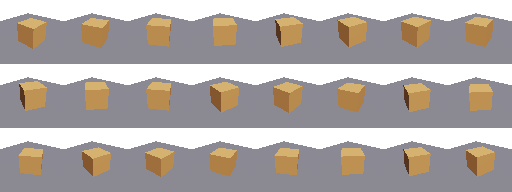
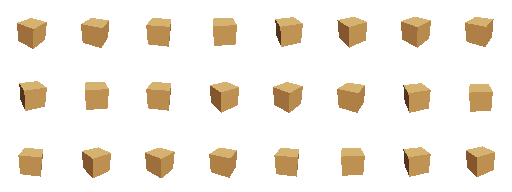
artstation: scene capture via captureFrame + live stage/inspect
Drops the flush()/toImageData() dance for scene assets and uses the
new scene.captureFrame() everywhere — sheet render, save encoders,
inspect tiling, and the stage live-preview rAF loop. Capture canvas
is now display:none instead of position:absolute -99999px so the
shared SceneGraph doesn't leak onto the main viewport.

Restart startLivePreview() after any path that rebuilds the capture
SceneGraph (selectAsset's deferred re-render, saveVideo/saveGif's
finally), since clearScene + spec.build invalidates the refs the
preview loop captured and would otherwise freeze the stage.

td_test_scene loses its ground plane to double as the transparent-
background smoke test: silhouette pixels read RGBA(0,0,0,0) end to
end through the regenerated sheet PNG.

diff --git a/apps/artstation/app.js b/apps/artstation/app.js
@@ -256,35 +256,20 @@
 
     // ---- defineScene support --------------------------------------------
     //
-    // Hidden, off-screen canvas used to render 3D scenes for sheet capture.
-    // We position it absolutely off-screen rather than display:none because
-    // bro skips render for elements with no layout box, and we *want* the
-    // scene to actually render so its tonemap FBO can be readback'd. The
-    // canvas size matches the asset's frameWidth/frameHeight so we capture
-    // exactly the cell-sized region per frame — no scaling, no cropping.
+    // Hidden canvas hosting a SceneGraph for sheet capture. display:none keeps
+    // the engine's per-tick scene compositor from drawing it on screen; sizing
+    // and rendering go through scene.captureFrame(w, h), which drives a
+    // synchronous render and reads back the tonemap FBO. That works in both
+    // windowed and headless modes — no flush() dependency.
     let captureCanvas = null;
     let captureScene  = null;
 
-    function ensureCaptureCanvas(w, h) {
+    function ensureCaptureCanvas() {
         if (!captureCanvas) {
             captureCanvas = document.createElement('canvas');
             captureCanvas.id = '__artstation_capture';
-            captureCanvas.style.position = 'absolute';
-            captureCanvas.style.left = '-99999px';
-            captureCanvas.style.top  = '-99999px';
+            captureCanvas.style.display = 'none';
             document.body.appendChild(captureCanvas);
-        }
-        if (captureCanvas.width !== w || captureCanvas.height !== h) {
-            captureCanvas.width = w;
-            captureCanvas.height = h;
-            captureCanvas.style.width  = w + 'px';
-            captureCanvas.style.height = h + 'px';
-            // Recreating the context is required when the size changes
-            // because the underlying scene FBO is sized lazily — and for a
-            // brand-new asset there's no existing context anyway.
-            captureScene = null;
-        }
-        if (!captureScene) {
             captureScene = captureCanvas.getContext('scene');
         }
         return captureScene;
@@ -317,18 +302,10 @@
         const fw = spec.frameWidth, fh = spec.frameHeight;
         const sheetCtx = resetCanvas(sheetCanvas, layout.w, layout.h, spec.bg, spec.pixel);
 
-        const scene = ensureCaptureCanvas(fw, fh);
+        const scene = ensureCaptureCanvas();
         clearScene(scene);
 
-        // Two flushes: the first publishes the new canvas size into the
-        // layout/render pipeline so the scene's mesh FBO gets sized to
-        // (fw, fh) before build() runs. The second drains any GL state set
-        // up by build() (texture creation, buffer uploads) so the first
-        // frame's render is on a fully-initialized scene.
-        if (typeof flush === 'function') flush();
-
         const refs = spec.build(scene) || {};
-        if (typeof flush === 'function') flush();
 
         const dt = 1 / spec.fps;
         for (let i = 0; i < layout.n; i++) {
@@ -339,15 +316,11 @@
             try { spec.frame(scene, t, dt, refs, i); }
             catch (e) { console.log(`scene frame ${i} threw:`, e.message); }
 
-            // Drive a real engine tick so the scene re-renders with the new
-            // transforms; the tonemap FBO is then ready for readback.
-            if (typeof flush === 'function') flush();
-
-            const img = scene.toImageData ? scene.toImageData() : null;
+            const img = scene.captureFrame(fw, fh);
             if (img && img.width === fw && img.height === fh) {
                 sheetCtx.putImageData(img, cx, cy);
             } else {
-                console.log(`scene frame ${i}: toImageData unavailable or size mismatch`);
+                console.log(`scene frame ${i}: captureFrame unavailable or size mismatch`);
             }
         }
     }
@@ -540,11 +513,7 @@
             entry.kind === 'animated') {
             inspect();
         } else if (entry.kind === 'scene') {
-            // Inspect for scene kind only draws the cell grid: replaying the
-            // 3D render into the inspect canvas would require a second
-            // capture pass per frame, and the sheet canvas already shows the
-            // pixels at 1:1 — anything more is debugger UX, not authoring UX.
-            inspectSceneGrid(name);
+            inspectScene(name);
         } else {
             // No inspect view for this kind — wipe any stale pixels left over
             // from the previously-selected asset so the panel doesn't lie.
@@ -552,17 +521,40 @@
         }
     }
 
-    function inspectSceneGrid(name) {
+    function inspectScene(name) {
         const entry = REGISTRY[name];
         const spec = entry.spec;
         const lay = entry.layout || sceneSize(spec);
-        const sw = sheetCanvas.width, sh = sheetCanvas.height;
+        const fw = spec.frameWidth, fh = spec.frameHeight;
+        const sw = lay.w, sh = lay.h;
         const scale = Math.max(1, Math.floor(384 / Math.max(sw, sh)));
         const w = sw * scale, h = sh * scale;
         const ctx = resetCanvas(inspectCanvas, w, h, '#222');
-        ctx.fillStyle = 'rgba(0,255,255,0.45)';
-        const cellW = spec.frameWidth * scale;
-        const cellH = spec.frameHeight * scale;
+
+        // Re-capture each frame at scaled cell size and putImageData onto
+        // the inspect canvas. Mirrors the sheet inspect path but goes
+        // through scene.captureFrame() since 3D content can't be replayed
+        // by drawing into a 2D ctx.
+        const scene = ensureCaptureCanvas();
+        clearScene(scene);
+        let refs = {};
+        try { refs = spec.build(scene) || {}; }
+        catch (e) { console.log('scene build threw:', e.message); }
+        const dt = 1 / spec.fps;
+        for (let i = 0; i < lay.n; i++) {
+            const cx = (i % lay.cols) * fw * scale;
+            const cy = Math.floor(i / lay.cols) * fh * scale;
+            try { spec.frame(scene, i * dt, dt, refs, i); }
+            catch (e) { console.log(`scene frame ${i} threw:`, e.message); }
+            const img = scene.captureFrame(fw * scale, fh * scale);
+            if (img) ctx.putImageData(img, cx, cy);
+        }
+
+        // Cell grid overlay so frame boundaries are still visible after
+        // the captures land — useful for spotting accidentally-clipped
+        // geometry that runs off the cell edge.
+        ctx.fillStyle = 'rgba(0,255,255,0.35)';
+        const cellW = fw * scale, cellH = fh * scale;
         for (let x = cellW; x < w; x += cellW) ctx.fillRect(x, 0, 1, h);
         for (let y = cellH; y < h; y += cellH) ctx.fillRect(0, y, w, 1);
     }
@@ -717,19 +709,15 @@
             const dt = 1 / spec.fps;
             const total = Math.max(1, Math.round(spec.fps * spec.duration));
             const ctx = resetCanvas(sheetCanvas, fw, fh, spec.bg, spec.pixel);
-            const scene = ensureCaptureCanvas(fw, fh);
+            const scene = ensureCaptureCanvas();
             clearScene(scene);
-            if (typeof flush === 'function') flush();
             const refs = spec.build(scene) || {};
-            if (typeof flush === 'function') flush();
             for (let i = 0; i < total; i++) {
                 resetCanvas(sheetCanvas, fw, fh, spec.bg, spec.pixel);
                 try { spec.frame(scene, i * dt, dt, refs, i); }
                 catch (e) { console.log(`scene frame ${i} threw:`, e.message); }
-                if (typeof flush === 'function') flush();
-                const img = scene.toImageData ? scene.toImageData() : null;
+                const img = scene.captureFrame(fw, fh);
                 if (img) ctx.putImageData(img, 0, 0);
-                if (typeof flush === 'function') flush();
                 addFrame(ctx, sheetCanvas, i);
             }
             frames = total;
@@ -893,7 +881,11 @@
                 fps: stats.fps, width: stats.fw, height: stats.fh,
             };
         } finally {
+            // Re-render rebuilds the capture SceneGraph (clearScene + build),
+            // which invalidates the refs the live preview captured. Restart
+            // it so the stage keeps animating after save returns.
             try { render(name); } catch (e) {}
+            try { startLivePreview(name); } catch (e) {}
         }
 
         status.textContent = `saved ${path} (${result.frames} frames)`;
@@ -946,7 +938,11 @@
                 fps: stats.fps, width: stats.fw, height: stats.fh,
             };
         } finally {
+            // Re-render rebuilds the capture SceneGraph (clearScene + build),
+            // which invalidates the refs the live preview captured. Restart
+            // it so the stage keeps animating after save returns.
             try { render(name); } catch (e) {}
+            try { startLivePreview(name); } catch (e) {}
         }
 
         status.textContent = `saved ${path} (${result.frames} frames)`;
@@ -1261,6 +1257,27 @@
         });
     }
 
+    // Live-preview render for scene assets. Mutates the shared capture
+    // SceneGraph for frame `idx`, captures it at stage-scaled resolution
+    // (so a 64×64 source doesn't look postage-stamp-sized), and blits the
+    // ImageData onto the stage centered. Captures at scaled-up size rather
+    // than capturing native + scaling-on-blit because cross-canvas drawImage
+    // through the GPU compositor is unreliable here (see comment above
+    // drawSheetFrameLive); putImageData is a clean pixel write.
+    function drawSceneFrameLive(spec, scene, refs, idx) {
+        const fw = spec.frameWidth, fh = spec.frameHeight;
+        const scale = fitScale(fw, fh);
+        const dt = 1 / spec.fps;
+        try { spec.frame(scene, idx * dt, dt, refs, idx); }
+        catch (e) { console.log(`scene frame ${idx} threw:`, e.message); }
+        const img = scene.captureFrame(fw * scale, fh * scale);
+        const ctx = resetStage();
+        if (!img) return;
+        const dx = Math.floor((stageCanvas.width  - img.width)  / 2);
+        const dy = Math.floor((stageCanvas.height - img.height) / 2);
+        ctx.putImageData(img, dx, dy);
+    }
+
     function drawTilesetLive(spec) {
         const ctx = resetStage();
         const ts = spec.tileSize;
@@ -1346,6 +1363,43 @@
                     : Math.min(idx, len - 1);
                 const frameIdx = liveAnimSpec.frames[slot];
                 drawSheetFrameLive(spec, frameIdx);
+                updateFrameCounter(slot, len);
+                livePreviewRAF = requestAnimationFrame(loop);
+            };
+            livePreviewRAF = requestAnimationFrame(loop);
+            return;
+        }
+
+        if (entry.kind === 'scene') {
+            // Scene live preview: same animation-driven indexing as 'sheet',
+            // but each frame re-runs spec.frame() on the capture SceneGraph
+            // and blits its tonemap readback onto the stage.
+            const meta = buildManifest(name, entry);
+            const anims = meta.animations || {};
+            liveAnimSpec  = (playback.anim && anims[playback.anim])
+                ? anims[playback.anim]
+                : defaultAnimation(meta);
+            const liveScene = ensureCaptureCanvas();
+            clearScene(liveScene);
+            let liveRefs = {};
+            try { liveRefs = spec.build(liveScene) || {}; }
+            catch (e) { console.log('scene build threw:', e.message); }
+            liveStartTime  = performance.now();
+            liveAccumS     = 0;
+            liveLastTickMs = liveStartTime;
+            const loop = (t) => {
+                if (!liveAnimSpec || CURRENT !== name) return;
+                let realDt = (t - liveLastTickMs) / 1000;
+                if (!isFinite(realDt) || realDt < 0) realDt = 0;
+                liveLastTickMs = t;
+                if (!playback.paused) liveAccumS += realDt * playback.speed;
+                const idx = Math.floor(liveAccumS * liveAnimSpec.fps);
+                const len = liveAnimSpec.frames.length;
+                const slot = liveAnimSpec.loop
+                    ? (idx % len)
+                    : Math.min(idx, len - 1);
+                const frameIdx = liveAnimSpec.frames[slot];
+                drawSceneFrameLive(spec, liveScene, liveRefs, frameIdx);
                 updateFrameCounter(slot, len);
                 livePreviewRAF = requestAnimationFrame(loop);
             };
@@ -1440,7 +1494,7 @@
             return;
         }
         let names = [];
-        if (entry.kind === 'sheet') {
+        if (entry.kind === 'sheet' || entry.kind === 'scene') {
             names = Object.keys(entry.spec.animations || {});
             if (names.length === 0) names = ['(all frames)'];
         } else if (entry.kind === 'animated') {
@@ -1542,7 +1596,12 @@
             if (isWindowed()) {
                 requestAnimationFrame(() => {
                     if (CURRENT === name) {
+                        // Same invalidation as the save path: render() rebuilds
+                        // the capture SceneGraph for scene assets, which kills
+                        // the refs the live-preview rAF loop was holding.
+                        // Restart the loop so the stage keeps animating.
                         try { render(name); } catch (e) {}
+                        try { startLivePreview(name); } catch (e) {}
                     }
                 });
             }

diff --git a/apps/artstation/assets/td_test_scene.js b/apps/artstation/assets/td_test_scene.js
@@ -1,7 +1,8 @@
-// First defineScene asset: a rotating colored cube on a small ground plane,
-// lit by a sun-like directional light + soft ambient. Pure smoke test for
-// the 3D capture pipeline — proves bromesh primitives + PBR lighting +
-// scene.toImageData round-trip end-to-end into a sprite-sheet PNG.
+// First defineScene asset: a rotating colored cube on a transparent
+// background, lit by a sun-like directional light + soft ambient. Doubles
+// as the scene-capture transparency smoke test — pixels outside the cube
+// silhouette must read RGBA(0,0,0,0) end-to-end (mesh FBO clear → tonemap
+// pass → readback → putImageData onto the sheet's transparent canvas).
 //
 // Build: bro-headless apps/artstation -e "load('td_test_scene'); render(); save();"
 // Output: apps/artstation/output/td_test_scene.png + .json
@@ -14,16 +15,6 @@ defineScene('td_test_scene', {
     pixel: false,                      // 3D output — let smoothing through
 
     build(scene) {
-        // Ground: large plane below the origin, slightly tinted.
-        const ground = scene.createMesh({
-            mesh: 'plane',
-            halfW: 4, halfD: 4,
-            y: -0.5,
-            color: '#3a3a44',
-            metallic: 0.0,
-            roughness: 0.9,
-        });
-
         // The hero. A small cube the camera will orbit visually as the
         // cube spins (cube spins in frame(); camera is fixed).
         const cube = scene.createMesh({
@@ -55,7 +46,7 @@ defineScene('td_test_scene', {
             up:       [0, 1, 0],
         });
 
-        return { cube, ground, sun };
+        return { cube, sun };
     },
 
     frame(scene, t, dt, refs, i) {
